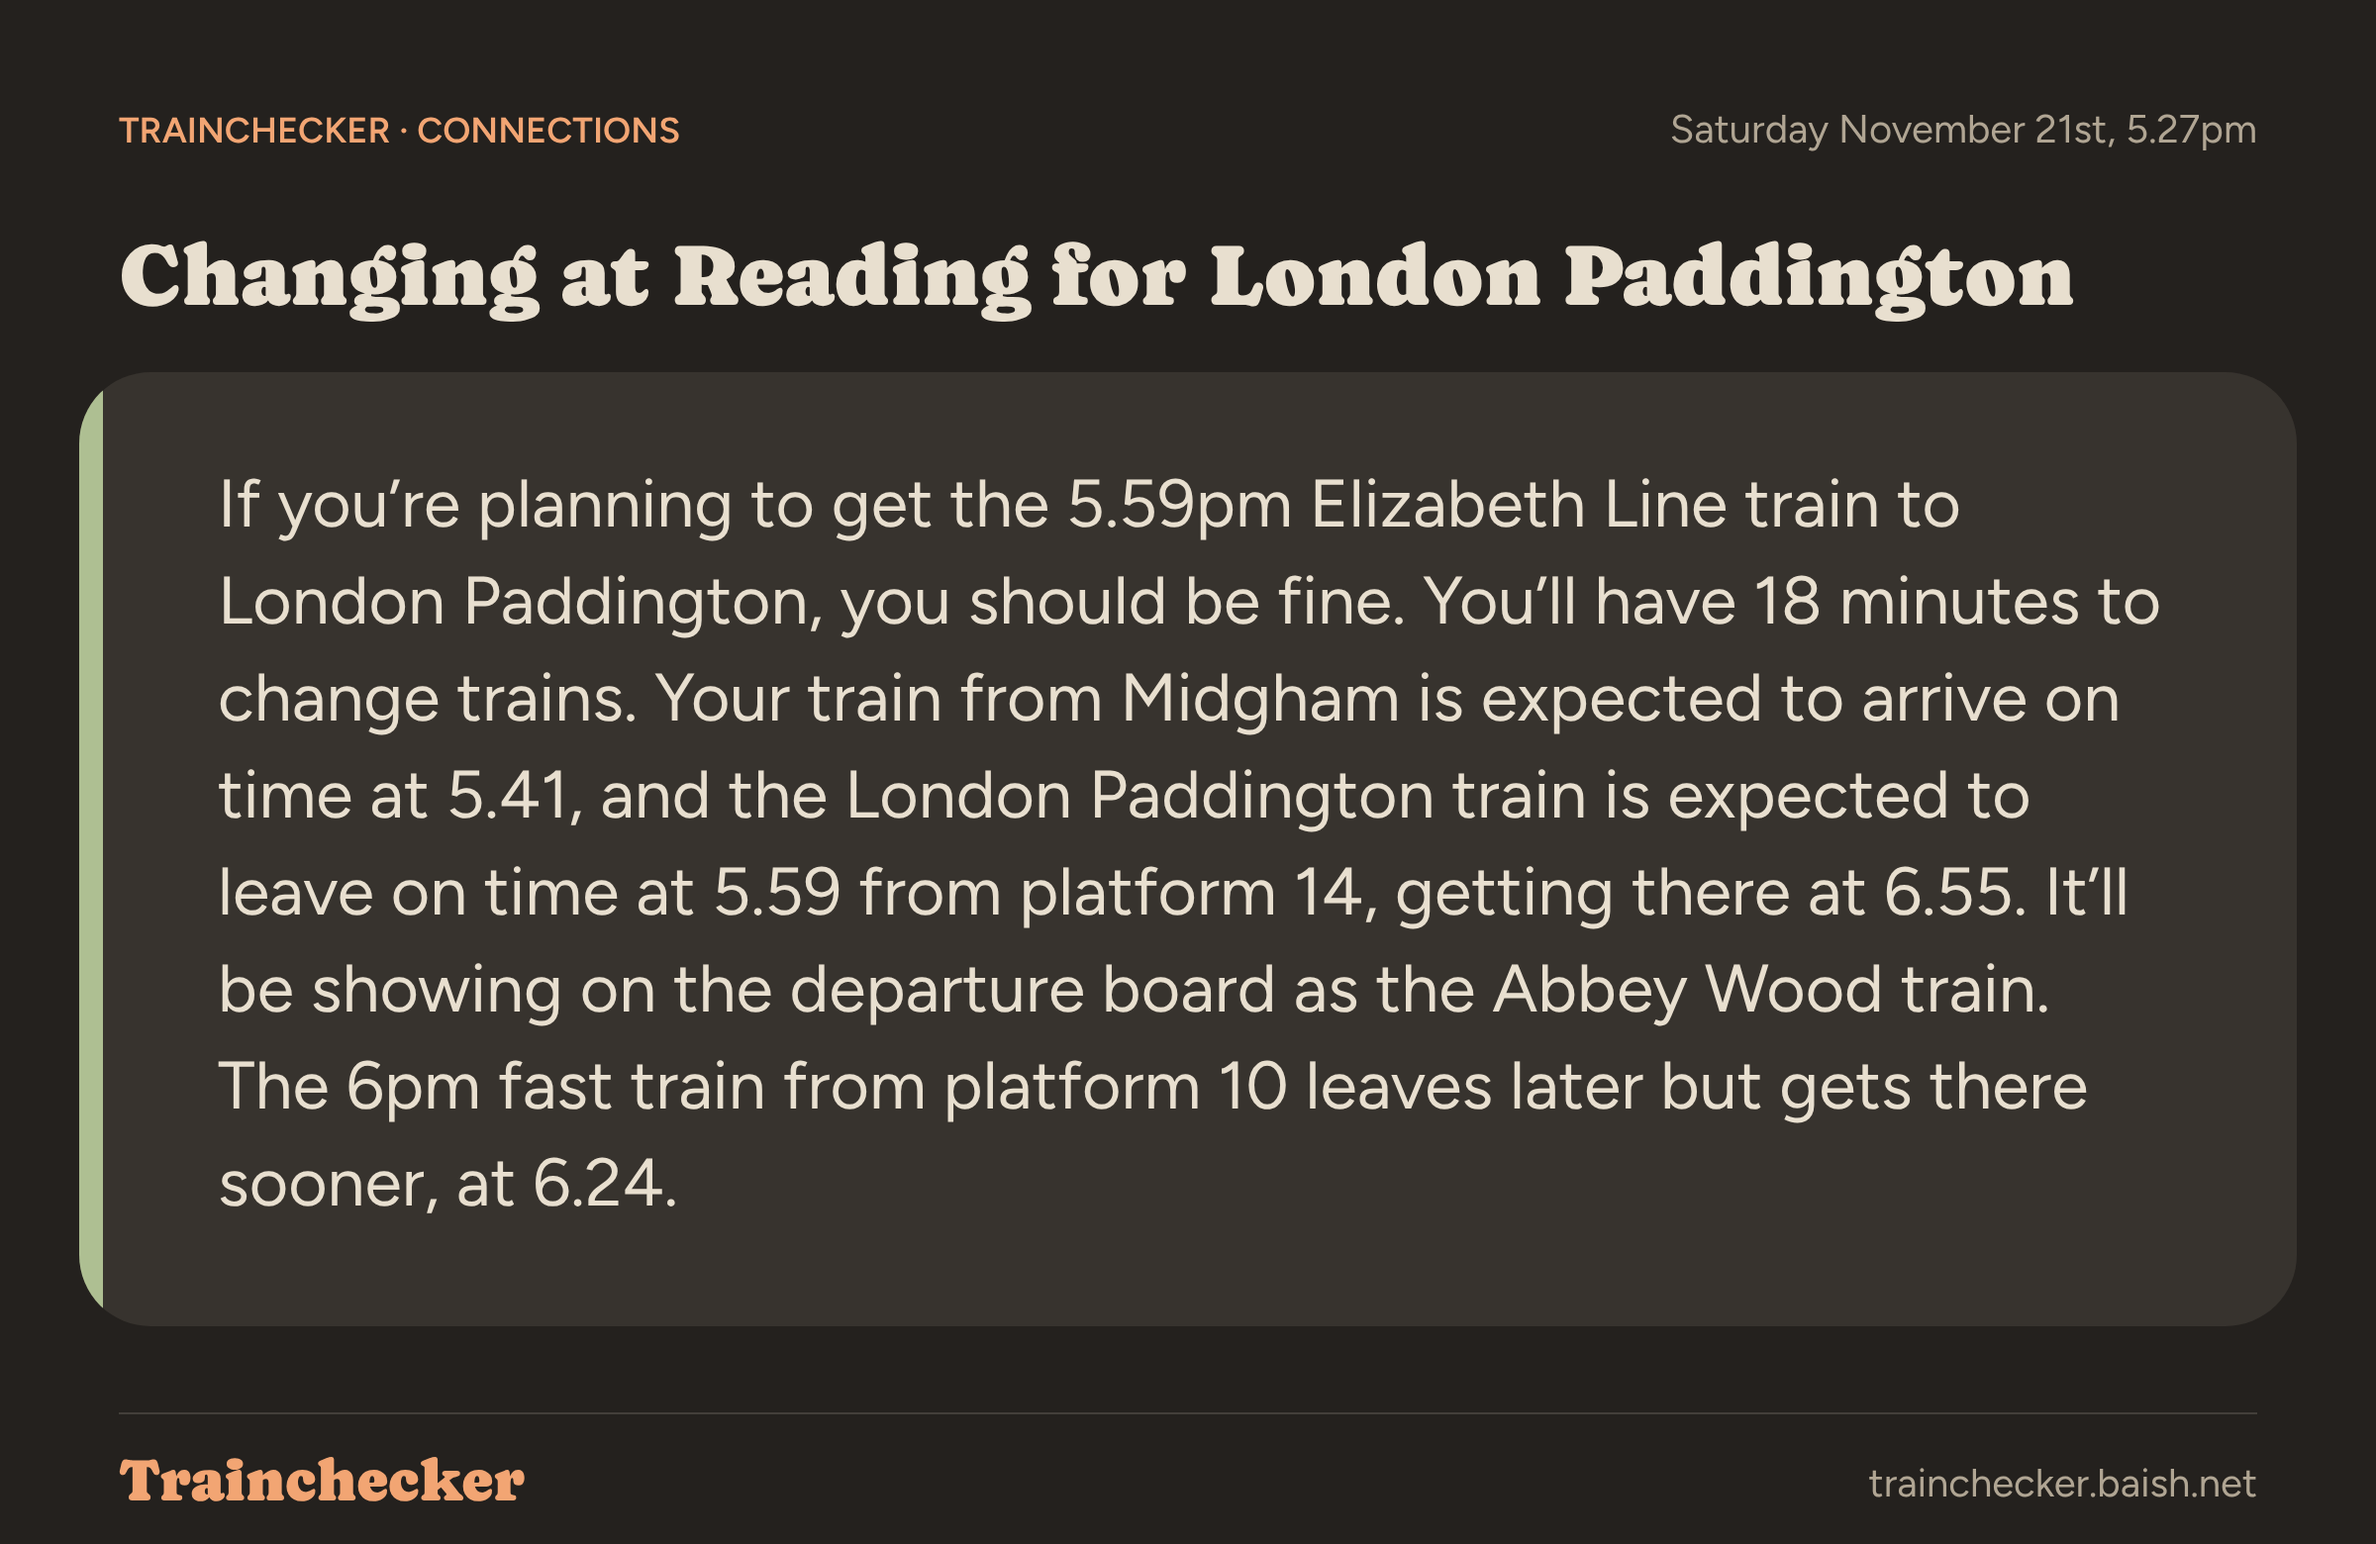
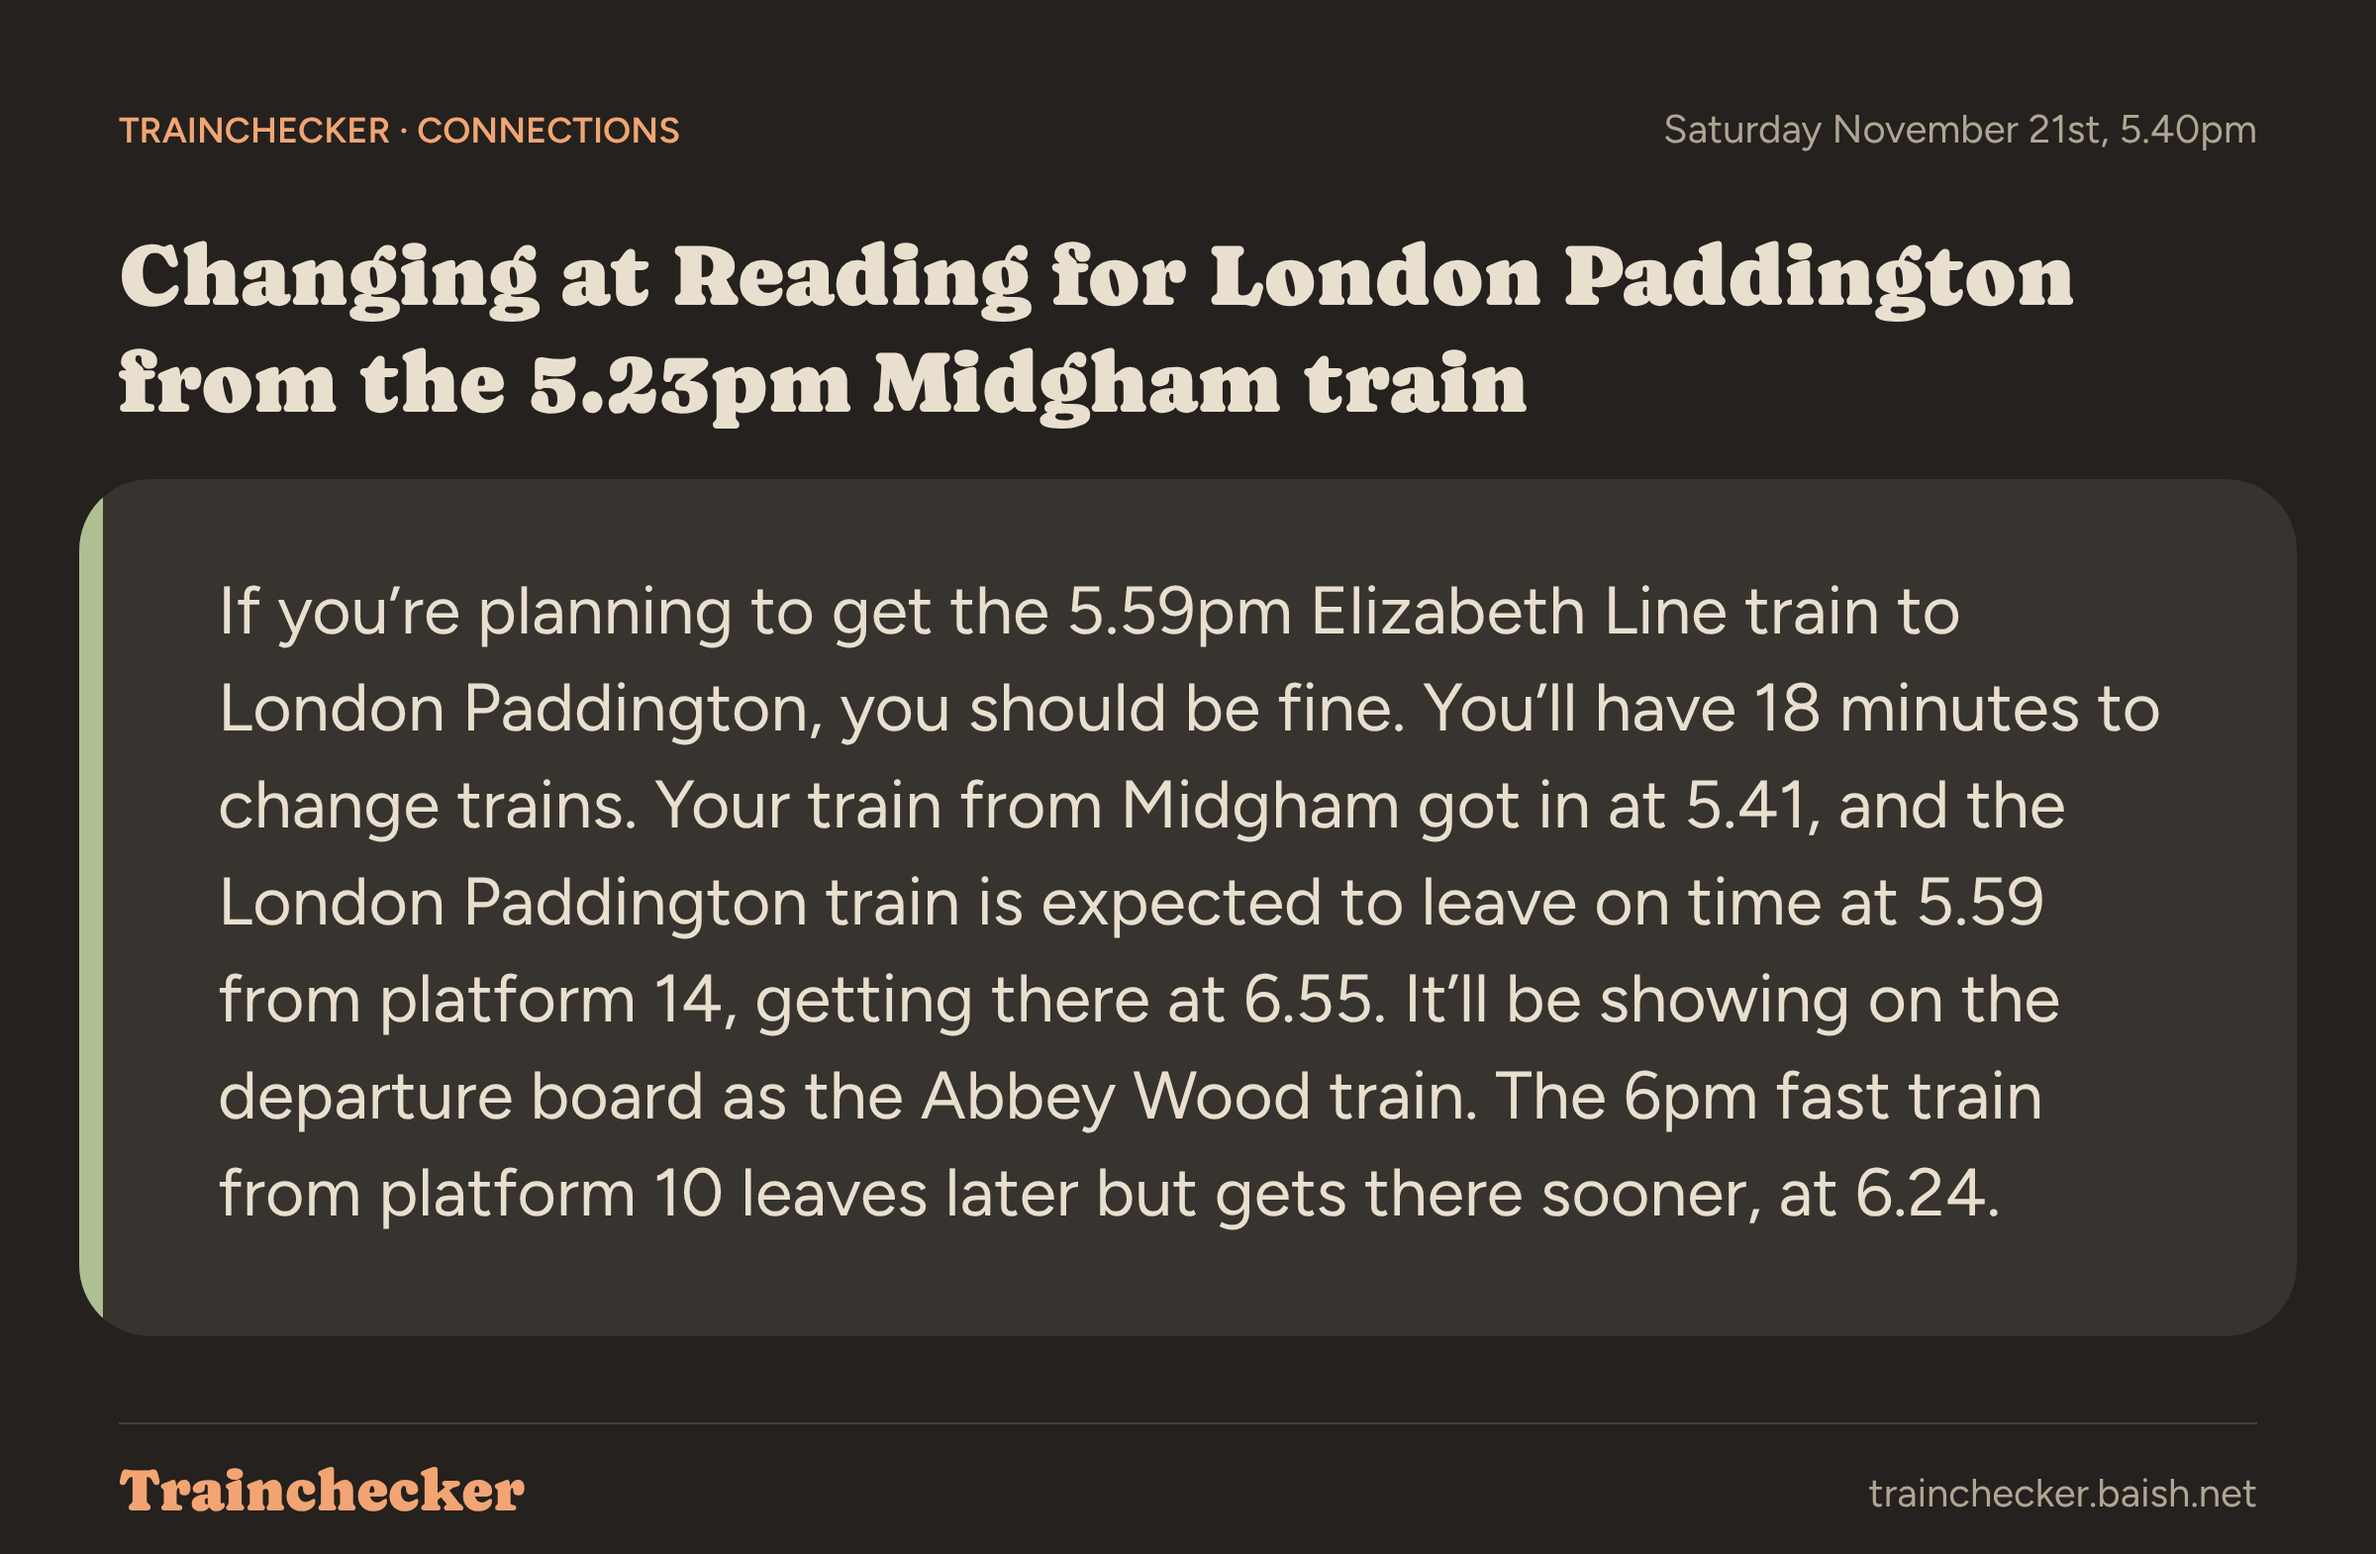
Connections: the share picture's heading names the train you're on
Claude-Session: https://claude.ai/code/session_01BsvHLJVEPukqyQFKhdT3CT

diff --git a/src/components/Connection.tsx b/src/components/Connection.tsx
@@ -72,7 +72,9 @@ export function Connection({ a }: { a: Analysis }) {
     if (!ans || result.s !== 'ok') return
     setShared('')
     const d = result.d, taken = new Date(d.taken)
-    const canvas = answerImage({ heading: `Changing at ${a.to} for ${d.toName}`, text: ans.text, edge: EDGE[ans.kind], when: `${dayName(taken)}, ${t12(clock(d.taken))}` })
+    const left = mines.find(({ m }) => m.id === mineId)?.s.std
+    // The heading is John's (November 21st 2026).
+    const canvas = answerImage({ heading: `Changing at ${a.to} for ${d.toName}${left ? ` from the ${t12(left)} ${a.from} train` : ''}`, text: ans.text, edge: EDGE[ans.kind], when: `${dayName(taken)}, ${t12(clock(d.taken))}` })
     const r = await deliverImage(canvas, `trainchecker-connection-${a.fromCrs}-${a.toCrs}-${d.to}.png`,
       { title: 'Trainchecker: connections', text: `Here’s how my change at ${a.to} for ${d.toName} looks on Trainchecker.`, url: `${location.origin}/#${a.fromCrs}-${a.toCrs}` })
     setShared(r === 'copied' ? 'Copied' : r === 'saved' ? 'Saved as a picture' : '')

diff --git a/CLAUDE.md b/CLAUDE.md
@@ -159,6 +159,8 @@ given its own branch). Before committing there, run
   with the journey's link. Checked: `npm run check` 267 + 57 + 73 + 21, `tsc -b`, lint, build;
   `design/previews/connection/share.cjs` at 1200px on live trains at 5.27pm: copied, read back from the
   clipboard (`share-picture.png`), both fonts loaded, no errors. Not checked: a phone's share sheet.
+- **John:** the share sentence "is perfect" (agreed); the picture's heading is "Changing at Reading for
+  London Paddington from the 5.25pm Midgham train" (done).
 - Key saved here now: Live Departure Board.
 
 ### November 20th 2026: next weekend's full closures, an idea for Monday (notes only; Claude Code)
